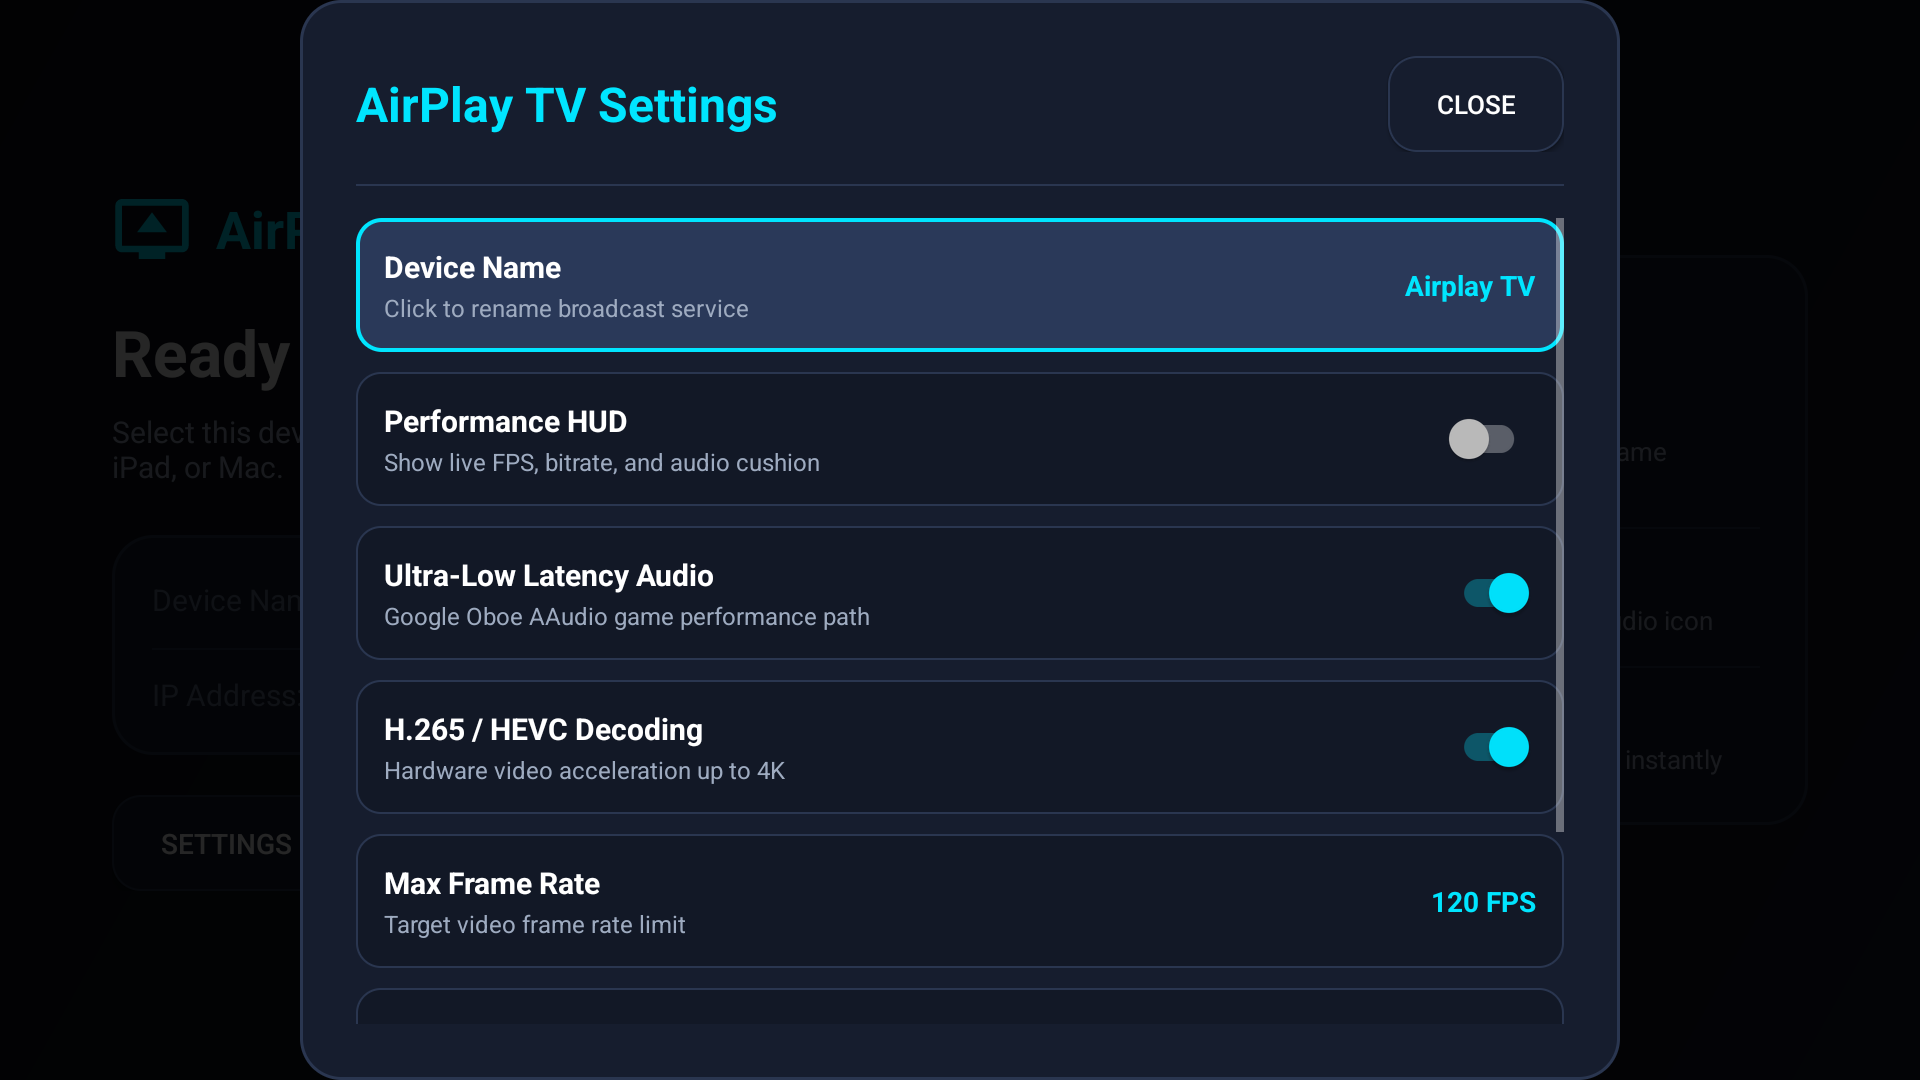
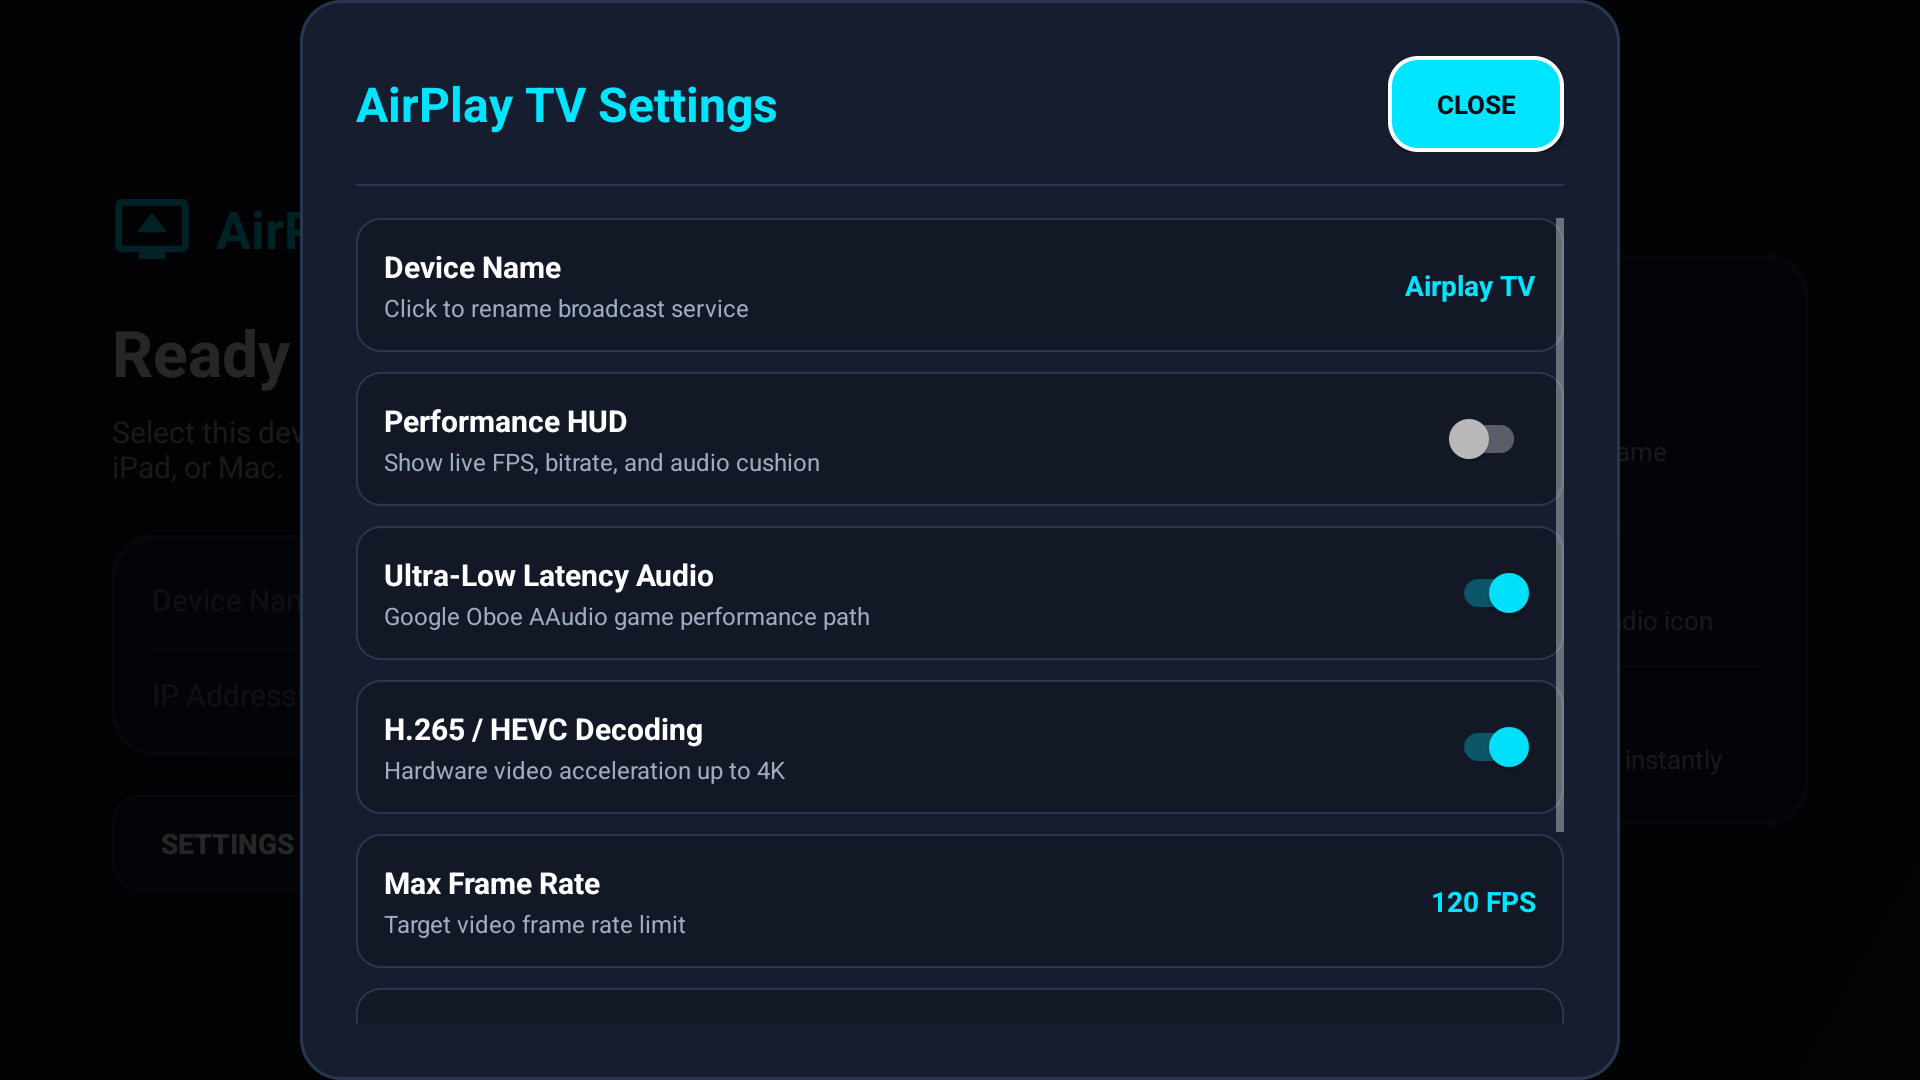
refactor: remove unused video downloader and refine TV button focus contrast
- Remove unused VideoDownloader and media3-transformer dependency
- Add dynamic text color selector for focusable buttons to ensure high contrast on Leanback UI
- Refresh documentation screenshots with refined button states

Changed region(s): [[0.1875, 0.1833, 0.8125, 0.3361], [0.7188, 0.0306, 0.8125, 0.1528], [0.125, 0.7639, 0.1562, 0.7944]]

diff --git a/app/src/main/kotlin/com/flymop/airplaytv/service/AirPlayService.kt b/app/src/main/kotlin/com/flymop/airplaytv/service/AirPlayService.kt
@@ -53,7 +53,6 @@ import com.flymop.airplaytv.bridge.LogListener
 import com.flymop.airplaytv.bridge.NativeBridge
 import com.flymop.airplaytv.bridge.RaopCallbackHandler
 import com.flymop.airplaytv.discovery.NsdServiceManager
-import com.flymop.airplaytv.download.VideoDownloader
 import com.flymop.airplaytv.renderer.AirPlayVideoPlayer
 import com.flymop.airplaytv.renderer.AudioRenderer
 import com.flymop.airplaytv.renderer.VideoRenderer
@@ -88,7 +87,6 @@ class AirPlayService : LifecycleService(), RaopCallbackHandler, LogListener {
     val audioRenderer = AudioRenderer()
     private val audioManager by lazy { getSystemService(Context.AUDIO_SERVICE) as AudioManager }
     val airPlayVideoPlayer by lazy { AirPlayVideoPlayer(this) }
-    val videoDownloader by lazy { VideoDownloader(this) }
 
     // hls urls point at the native httpd, valid only while the session lives
     private val _videoLocation = MutableStateFlow<String?>(null)
@@ -619,10 +617,6 @@ class AirPlayService : LifecycleService(), RaopCallbackHandler, LogListener {
         _durationMs.value = 0
         _updateMediaNotification()
         mediaSession?.isActive = false
-    }
-
-    fun downloadVideo() {
-        _videoLocation.value?.let { videoDownloader.start(it) }
     }
 
     private fun _endVideoPlayback(message: String) {
